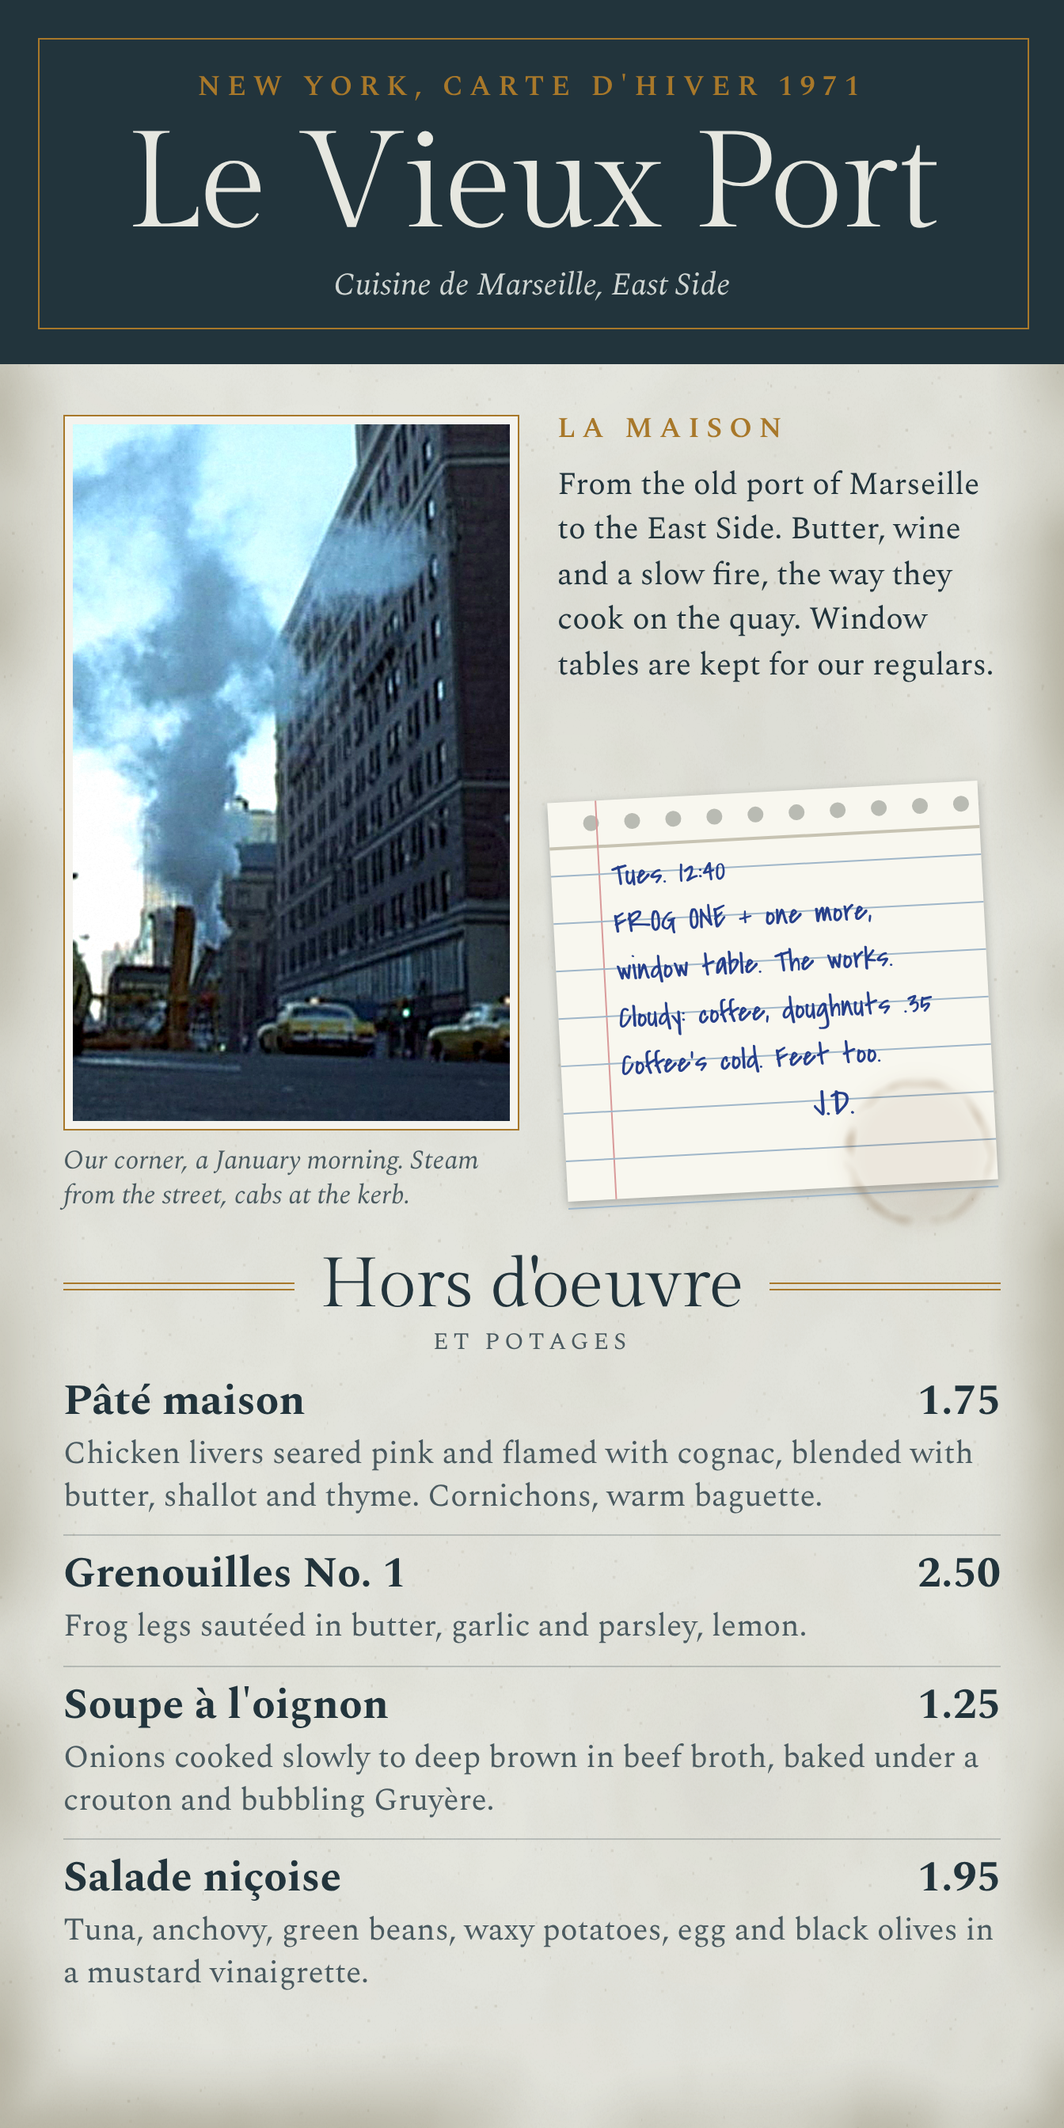
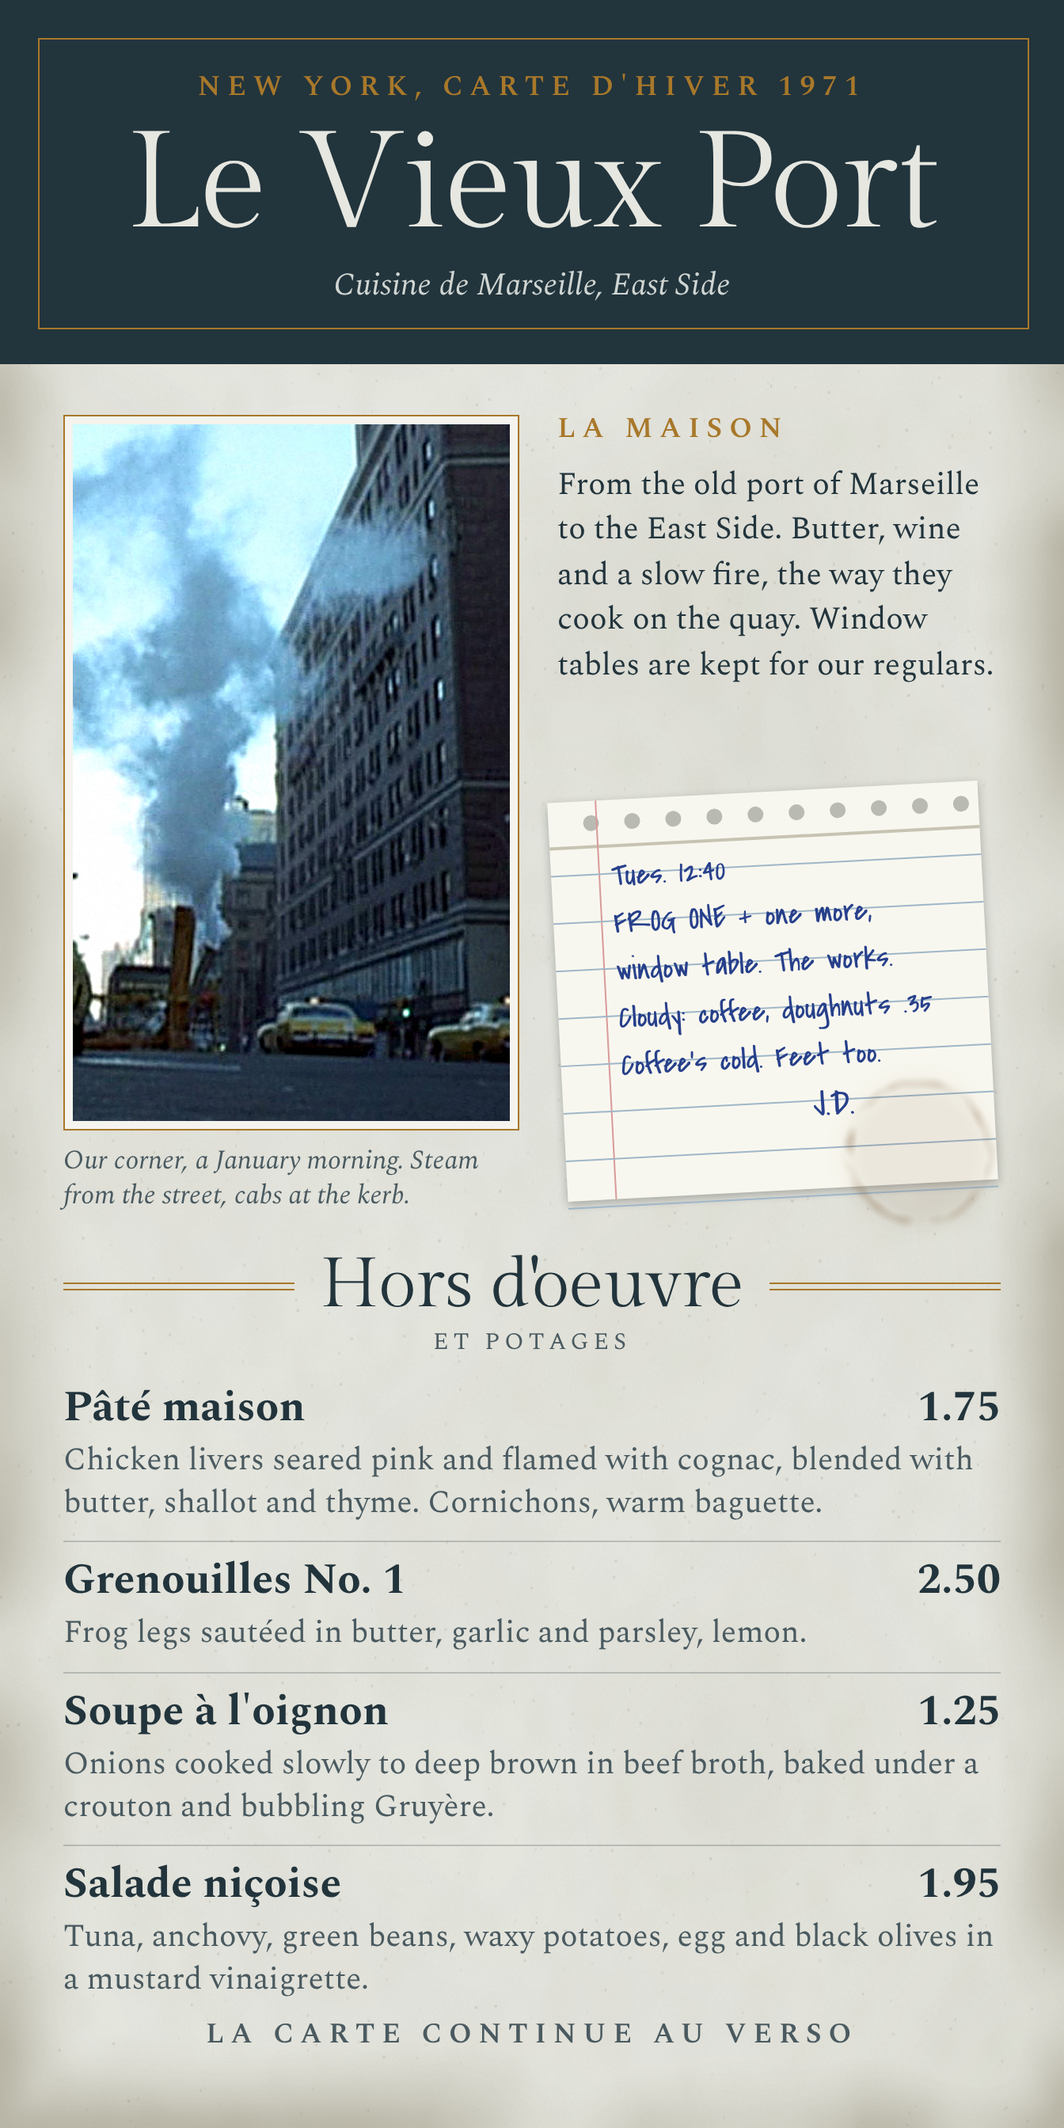
WIP: French Connection fix
Claude-Session: https://claude.ai/code/session_01X8MY2cd64W8hRNnJ8H5qJf

diff --git a/wip/print/the-french-connection/front.html b/wip/print/the-french-connection/front.html
@@ -12,5 +12,6 @@
 <div style="position:absolute;left:352px;top:500px;width:272px;height:252px;"><div style="position:absolute;left:0;top:0;width:272px;height:252px;background:#f8f7ef;box-shadow:0 2px 6px rgba(20,30,34,.28);transform:rotate(-3deg)"><div style="position:absolute;left:0;right:0;top:0;height:28px;border-bottom:2px solid #c7c3b2"></div><div style="position:absolute;top:9px;left:22px;width:10px;height:10px;border-radius:50%;background:#b9bbb3"></div><div style="position:absolute;top:9px;left:48px;width:10px;height:10px;border-radius:50%;background:#b9bbb3"></div><div style="position:absolute;top:9px;left:74px;width:10px;height:10px;border-radius:50%;background:#b9bbb3"></div><div style="position:absolute;top:9px;left:100px;width:10px;height:10px;border-radius:50%;background:#b9bbb3"></div><div style="position:absolute;top:9px;left:126px;width:10px;height:10px;border-radius:50%;background:#b9bbb3"></div><div style="position:absolute;top:9px;left:152px;width:10px;height:10px;border-radius:50%;background:#b9bbb3"></div><div style="position:absolute;top:9px;left:178px;width:10px;height:10px;border-radius:50%;background:#b9bbb3"></div><div style="position:absolute;top:9px;left:204px;width:10px;height:10px;border-radius:50%;background:#b9bbb3"></div><div style="position:absolute;top:9px;left:230px;width:10px;height:10px;border-radius:50%;background:#b9bbb3"></div><div style="position:absolute;top:9px;left:256px;width:10px;height:10px;border-radius:50%;background:#b9bbb3"></div><div style="position:absolute;left:30px;top:0;bottom:0;border-left:1px solid #d99a9a"></div><div style="position:absolute;left:0;right:0;top:46px;border-top:1px solid #9fb6c9"></div><div style="position:absolute;left:0;right:0;top:76px;border-top:1px solid #9fb6c9"></div><div style="position:absolute;left:0;right:0;top:106px;border-top:1px solid #9fb6c9"></div><div style="position:absolute;left:0;right:0;top:136px;border-top:1px solid #9fb6c9"></div><div style="position:absolute;left:0;right:0;top:166px;border-top:1px solid #9fb6c9"></div><div style="position:absolute;left:0;right:0;top:196px;border-top:1px solid #9fb6c9"></div><div style="position:absolute;left:0;right:0;top:226px;border-top:1px solid #9fb6c9"></div><div style="position:absolute;left:0;right:0;top:256px;border-top:1px solid #9fb6c9"></div><div style="position:absolute;left:38px;top:34px"><div style="height:30px;font:400 20px/30px 'Covered By Your Grace',cursive;color:#27408b;white-space:nowrap">Tues. 12:40</div><div style="height:30px;font:400 20px/30px 'Covered By Your Grace',cursive;color:#27408b;white-space:nowrap">FROG ONE + one more,</div><div style="height:30px;font:400 20px/30px 'Covered By Your Grace',cursive;color:#27408b;white-space:nowrap">window table. The works.</div><div style="height:30px;font:400 20px/30px 'Covered By Your Grace',cursive;color:#27408b;white-space:nowrap">Cloudy: coffee, doughnuts .35</div><div style="height:30px;font:400 20px/30px 'Covered By Your Grace',cursive;color:#27408b;white-space:nowrap">Coffee's cold. Feet too.</div><div style="font:400 24px/30px 'Covered By Your Grace',cursive;color:#27408b;margin-left:120px">J.D.</div></div></div></div>
 <img src="assets/ring.png" alt="" style="position:absolute;left:520px;top:668px;width:120px;height:120px;display:block">
 
-<div style="position:absolute;left:40px;top:790px;width:592px;"><div style="display:flex;align-items:center;gap:16px"><div style="flex:1;height:0;border-top:1px solid #a8782a;border-bottom:1px solid #a8782a;padding-top:3px"></div><div style="font:400 44px/1 'Gilda Display',serif;color:#22343c;white-space:nowrap">Hors d&#39;oeuvre</div><div style="flex:1;height:0;border-top:1px solid #a8782a;border-bottom:1px solid #a8782a;padding-top:3px"></div></div><div style="font:400 15px/1 'Spectral',serif;letter-spacing:.2em;color:#4a5a60;margin-top:6px;text-align:center">ET POTAGES</div><div style="margin-top:6px"><div style="padding:9px 0 10px;border-bottom:1px solid rgba(34,52,60,.22);"><div style="display:flex;justify-content:space-between;align-items:baseline;gap:12px"><div style="font:700 27px/1.15 'Spectral',serif;color:#22343c">Pâté maison</div><div style="font:700 27px/1.15 'Spectral',serif;color:#22343c;white-space:nowrap">1.75</div></div><div style="font:400 20px/1.36 'Spectral',serif;color:#4a5a60;margin-top:4px">Chicken livers seared pink and flamed with cognac, blended with butter, shallot and thyme. Cornichons, warm baguette.</div></div><div style="padding:9px 0 10px;border-bottom:1px solid rgba(34,52,60,.22);"><div style="display:flex;justify-content:space-between;align-items:baseline;gap:12px"><div style="font:700 27px/1.15 'Spectral',serif;color:#22343c">Grenouilles No. 1</div><div style="font:700 27px/1.15 'Spectral',serif;color:#22343c;white-space:nowrap">2.50</div></div><div style="font:400 20px/1.36 'Spectral',serif;color:#4a5a60;margin-top:4px">Frog legs sautéed in butter, garlic and parsley, lemon.</div></div><div style="padding:9px 0 10px;border-bottom:1px solid rgba(34,52,60,.22);"><div style="display:flex;justify-content:space-between;align-items:baseline;gap:12px"><div style="font:700 27px/1.15 'Spectral',serif;color:#22343c">Soupe à l'oignon</div><div style="font:700 27px/1.15 'Spectral',serif;color:#22343c;white-space:nowrap">1.25</div></div><div style="font:400 20px/1.36 'Spectral',serif;color:#4a5a60;margin-top:4px">Onions cooked slowly to deep brown in beef broth, baked under a crouton and bubbling Gruyère.</div></div><div style="padding:9px 0 10px;"><div style="display:flex;justify-content:space-between;align-items:baseline;gap:12px"><div style="font:700 27px/1.15 'Spectral',serif;color:#22343c">Salade niçoise</div><div style="font:700 27px/1.15 'Spectral',serif;color:#22343c;white-space:nowrap">1.95</div></div><div style="font:400 20px/1.36 'Spectral',serif;color:#4a5a60;margin-top:4px">Tuna, anchovy, green beans, waxy potatoes, egg and black olives in a mustard vinaigrette.</div></div></div></div>
+<div style="position:absolute;left:40px;top:790px;width:592px;"><div style="display:flex;align-items:center;gap:16px"><div style="flex:1;height:0;border-top:1px solid #a8782a;border-bottom:1px solid #a8782a;padding-top:3px"></div><div style="font:400 44px/1 'Gilda Display',serif;color:#22343c;white-space:nowrap">Hors d&#39;oeuvre</div><div style="flex:1;height:0;border-top:1px solid #a8782a;border-bottom:1px solid #a8782a;padding-top:3px"></div></div><div style="font:400 15px/1 'Spectral',serif;letter-spacing:.2em;color:#4a5a60;margin-top:6px;text-align:center">ET POTAGES</div><div style="margin-top:10px"><div style="padding:9px 0 10px;border-bottom:1px solid rgba(34,52,60,.22);"><div style="display:flex;justify-content:space-between;align-items:baseline;gap:12px"><div style="font:700 27px/1.15 'Spectral',serif;color:#22343c">Pâté maison</div><div style="font:700 27px/1.15 'Spectral',serif;color:#22343c;white-space:nowrap">1.75</div></div><div style="font:400 20px/1.36 'Spectral',serif;color:#4a5a60;margin-top:4px">Chicken livers seared pink and flamed with cognac, blended with butter, shallot and thyme. Cornichons, warm baguette.</div></div><div style="padding:9px 0 10px;border-bottom:1px solid rgba(34,52,60,.22);"><div style="display:flex;justify-content:space-between;align-items:baseline;gap:12px"><div style="font:700 27px/1.15 'Spectral',serif;color:#22343c">Grenouilles No. 1</div><div style="font:700 27px/1.15 'Spectral',serif;color:#22343c;white-space:nowrap">2.50</div></div><div style="font:400 20px/1.36 'Spectral',serif;color:#4a5a60;margin-top:4px">Frog legs sautéed in butter, garlic and parsley, lemon.</div></div><div style="padding:9px 0 10px;border-bottom:1px solid rgba(34,52,60,.22);"><div style="display:flex;justify-content:space-between;align-items:baseline;gap:12px"><div style="font:700 27px/1.15 'Spectral',serif;color:#22343c">Soupe à l'oignon</div><div style="font:700 27px/1.15 'Spectral',serif;color:#22343c;white-space:nowrap">1.25</div></div><div style="font:400 20px/1.36 'Spectral',serif;color:#4a5a60;margin-top:4px">Onions cooked slowly to deep brown in beef broth, baked under a crouton and bubbling Gruyère.</div></div><div style="padding:9px 0 10px;"><div style="display:flex;justify-content:space-between;align-items:baseline;gap:12px"><div style="font:700 27px/1.15 'Spectral',serif;color:#22343c">Salade niçoise</div><div style="font:700 27px/1.15 'Spectral',serif;color:#22343c;white-space:nowrap">1.95</div></div><div style="font:400 20px/1.36 'Spectral',serif;color:#4a5a60;margin-top:4px">Tuna, anchovy, green beans, waxy potatoes, egg and black olives in a mustard vinaigrette.</div></div></div></div>
+<div style="position:absolute;left:40px;top:1276px;width:592px;"><div style="font:600 18px/1 'Spectral',serif;letter-spacing:.24em;color:#4a5a60;text-align:center">LA CARTE CONTINUE AU VERSO</div></div>
 </div></body></html>

diff --git a/wip/print/the-french-connection/front.body.html b/wip/print/the-french-connection/front.body.html
@@ -12,5 +12,6 @@
 <div style="position:absolute;left:352px;top:500px;width:272px;height:252px;"><div style="position:absolute;left:0;top:0;width:272px;height:252px;background:#f8f7ef;box-shadow:0 2px 6px rgba(20,30,34,.28);transform:rotate(-3deg)"><div style="position:absolute;left:0;right:0;top:0;height:28px;border-bottom:2px solid #c7c3b2"></div><div style="position:absolute;top:9px;left:22px;width:10px;height:10px;border-radius:50%;background:#b9bbb3"></div><div style="position:absolute;top:9px;left:48px;width:10px;height:10px;border-radius:50%;background:#b9bbb3"></div><div style="position:absolute;top:9px;left:74px;width:10px;height:10px;border-radius:50%;background:#b9bbb3"></div><div style="position:absolute;top:9px;left:100px;width:10px;height:10px;border-radius:50%;background:#b9bbb3"></div><div style="position:absolute;top:9px;left:126px;width:10px;height:10px;border-radius:50%;background:#b9bbb3"></div><div style="position:absolute;top:9px;left:152px;width:10px;height:10px;border-radius:50%;background:#b9bbb3"></div><div style="position:absolute;top:9px;left:178px;width:10px;height:10px;border-radius:50%;background:#b9bbb3"></div><div style="position:absolute;top:9px;left:204px;width:10px;height:10px;border-radius:50%;background:#b9bbb3"></div><div style="position:absolute;top:9px;left:230px;width:10px;height:10px;border-radius:50%;background:#b9bbb3"></div><div style="position:absolute;top:9px;left:256px;width:10px;height:10px;border-radius:50%;background:#b9bbb3"></div><div style="position:absolute;left:30px;top:0;bottom:0;border-left:1px solid #d99a9a"></div><div style="position:absolute;left:0;right:0;top:46px;border-top:1px solid #9fb6c9"></div><div style="position:absolute;left:0;right:0;top:76px;border-top:1px solid #9fb6c9"></div><div style="position:absolute;left:0;right:0;top:106px;border-top:1px solid #9fb6c9"></div><div style="position:absolute;left:0;right:0;top:136px;border-top:1px solid #9fb6c9"></div><div style="position:absolute;left:0;right:0;top:166px;border-top:1px solid #9fb6c9"></div><div style="position:absolute;left:0;right:0;top:196px;border-top:1px solid #9fb6c9"></div><div style="position:absolute;left:0;right:0;top:226px;border-top:1px solid #9fb6c9"></div><div style="position:absolute;left:0;right:0;top:256px;border-top:1px solid #9fb6c9"></div><div style="position:absolute;left:38px;top:34px"><div style="height:30px;font:400 20px/30px 'Covered By Your Grace',cursive;color:#27408b;white-space:nowrap">Tues. 12:40</div><div style="height:30px;font:400 20px/30px 'Covered By Your Grace',cursive;color:#27408b;white-space:nowrap">FROG ONE + one more,</div><div style="height:30px;font:400 20px/30px 'Covered By Your Grace',cursive;color:#27408b;white-space:nowrap">window table. The works.</div><div style="height:30px;font:400 20px/30px 'Covered By Your Grace',cursive;color:#27408b;white-space:nowrap">Cloudy: coffee, doughnuts .35</div><div style="height:30px;font:400 20px/30px 'Covered By Your Grace',cursive;color:#27408b;white-space:nowrap">Coffee's cold. Feet too.</div><div style="font:400 24px/30px 'Covered By Your Grace',cursive;color:#27408b;margin-left:120px">J.D.</div></div></div></div>
 <img src="assets/ring.png" alt="" style="position:absolute;left:520px;top:668px;width:120px;height:120px;display:block">
 
-<div style="position:absolute;left:40px;top:790px;width:592px;"><div style="display:flex;align-items:center;gap:16px"><div style="flex:1;height:0;border-top:1px solid #a8782a;border-bottom:1px solid #a8782a;padding-top:3px"></div><div style="font:400 44px/1 'Gilda Display',serif;color:#22343c;white-space:nowrap">Hors d&#39;oeuvre</div><div style="flex:1;height:0;border-top:1px solid #a8782a;border-bottom:1px solid #a8782a;padding-top:3px"></div></div><div style="font:400 15px/1 'Spectral',serif;letter-spacing:.2em;color:#4a5a60;margin-top:6px;text-align:center">ET POTAGES</div><div style="margin-top:6px"><div style="padding:9px 0 10px;border-bottom:1px solid rgba(34,52,60,.22);"><div style="display:flex;justify-content:space-between;align-items:baseline;gap:12px"><div style="font:700 27px/1.15 'Spectral',serif;color:#22343c">Pâté maison</div><div style="font:700 27px/1.15 'Spectral',serif;color:#22343c;white-space:nowrap">1.75</div></div><div style="font:400 20px/1.36 'Spectral',serif;color:#4a5a60;margin-top:4px">Chicken livers seared pink and flamed with cognac, blended with butter, shallot and thyme. Cornichons, warm baguette.</div></div><div style="padding:9px 0 10px;border-bottom:1px solid rgba(34,52,60,.22);"><div style="display:flex;justify-content:space-between;align-items:baseline;gap:12px"><div style="font:700 27px/1.15 'Spectral',serif;color:#22343c">Grenouilles No. 1</div><div style="font:700 27px/1.15 'Spectral',serif;color:#22343c;white-space:nowrap">2.50</div></div><div style="font:400 20px/1.36 'Spectral',serif;color:#4a5a60;margin-top:4px">Frog legs sautéed in butter, garlic and parsley, lemon.</div></div><div style="padding:9px 0 10px;border-bottom:1px solid rgba(34,52,60,.22);"><div style="display:flex;justify-content:space-between;align-items:baseline;gap:12px"><div style="font:700 27px/1.15 'Spectral',serif;color:#22343c">Soupe à l'oignon</div><div style="font:700 27px/1.15 'Spectral',serif;color:#22343c;white-space:nowrap">1.25</div></div><div style="font:400 20px/1.36 'Spectral',serif;color:#4a5a60;margin-top:4px">Onions cooked slowly to deep brown in beef broth, baked under a crouton and bubbling Gruyère.</div></div><div style="padding:9px 0 10px;"><div style="display:flex;justify-content:space-between;align-items:baseline;gap:12px"><div style="font:700 27px/1.15 'Spectral',serif;color:#22343c">Salade niçoise</div><div style="font:700 27px/1.15 'Spectral',serif;color:#22343c;white-space:nowrap">1.95</div></div><div style="font:400 20px/1.36 'Spectral',serif;color:#4a5a60;margin-top:4px">Tuna, anchovy, green beans, waxy potatoes, egg and black olives in a mustard vinaigrette.</div></div></div></div>
+<div style="position:absolute;left:40px;top:790px;width:592px;"><div style="display:flex;align-items:center;gap:16px"><div style="flex:1;height:0;border-top:1px solid #a8782a;border-bottom:1px solid #a8782a;padding-top:3px"></div><div style="font:400 44px/1 'Gilda Display',serif;color:#22343c;white-space:nowrap">Hors d&#39;oeuvre</div><div style="flex:1;height:0;border-top:1px solid #a8782a;border-bottom:1px solid #a8782a;padding-top:3px"></div></div><div style="font:400 15px/1 'Spectral',serif;letter-spacing:.2em;color:#4a5a60;margin-top:6px;text-align:center">ET POTAGES</div><div style="margin-top:10px"><div style="padding:9px 0 10px;border-bottom:1px solid rgba(34,52,60,.22);"><div style="display:flex;justify-content:space-between;align-items:baseline;gap:12px"><div style="font:700 27px/1.15 'Spectral',serif;color:#22343c">Pâté maison</div><div style="font:700 27px/1.15 'Spectral',serif;color:#22343c;white-space:nowrap">1.75</div></div><div style="font:400 20px/1.36 'Spectral',serif;color:#4a5a60;margin-top:4px">Chicken livers seared pink and flamed with cognac, blended with butter, shallot and thyme. Cornichons, warm baguette.</div></div><div style="padding:9px 0 10px;border-bottom:1px solid rgba(34,52,60,.22);"><div style="display:flex;justify-content:space-between;align-items:baseline;gap:12px"><div style="font:700 27px/1.15 'Spectral',serif;color:#22343c">Grenouilles No. 1</div><div style="font:700 27px/1.15 'Spectral',serif;color:#22343c;white-space:nowrap">2.50</div></div><div style="font:400 20px/1.36 'Spectral',serif;color:#4a5a60;margin-top:4px">Frog legs sautéed in butter, garlic and parsley, lemon.</div></div><div style="padding:9px 0 10px;border-bottom:1px solid rgba(34,52,60,.22);"><div style="display:flex;justify-content:space-between;align-items:baseline;gap:12px"><div style="font:700 27px/1.15 'Spectral',serif;color:#22343c">Soupe à l'oignon</div><div style="font:700 27px/1.15 'Spectral',serif;color:#22343c;white-space:nowrap">1.25</div></div><div style="font:400 20px/1.36 'Spectral',serif;color:#4a5a60;margin-top:4px">Onions cooked slowly to deep brown in beef broth, baked under a crouton and bubbling Gruyère.</div></div><div style="padding:9px 0 10px;"><div style="display:flex;justify-content:space-between;align-items:baseline;gap:12px"><div style="font:700 27px/1.15 'Spectral',serif;color:#22343c">Salade niçoise</div><div style="font:700 27px/1.15 'Spectral',serif;color:#22343c;white-space:nowrap">1.95</div></div><div style="font:400 20px/1.36 'Spectral',serif;color:#4a5a60;margin-top:4px">Tuna, anchovy, green beans, waxy potatoes, egg and black olives in a mustard vinaigrette.</div></div></div></div>
+<div style="position:absolute;left:40px;top:1276px;width:592px;"><div style="font:600 18px/1 'Spectral',serif;letter-spacing:.24em;color:#4a5a60;text-align:center">LA CARTE CONTINUE AU VERSO</div></div>
 </div>

diff --git a/wip/print/16-blocks/paint.py b/wip/print/16-blocks/paint.py
@@ -47,7 +47,7 @@ for w_ in widths: xs.append(xs[-1] + w_)
 ys = [Y0 + j * BY for j in range(-2, 15)]
 SW = {}   # street half widths
 def hw_x(x): return 13 if x == X0 else 8
-def hw_y(y): return 13 if y == Y0 + 8 * BY else 8
+def hw_y(y): return 13 if y == Y0 + 8 * BY else (17 if y == Y0 + 4 * BY else 8)
 EAST_Y = Y0 + 8 * BY
 END_X = xs[2 + 8]
 
@@ -142,8 +142,8 @@ label('CANAL ST', (xs[6] + xs[7]) / 2 + 6, EAST_Y + 36, 28)
 cxl, cyl = (xs[6] + xs[8]) / 2 + 30, ys[2 + 6] + BY / 2
 d.rectangle(k(cxl - 110, cyl - 20, cxl + 110, cyl + 20), fill=CREAM, outline=NAVY, width=2 * K)
 label('CHINATOWN', cxl + 4, cyl, 26, 0, NAVY, 'BSD-800.ttf', 9)
-label('WALKER ST', (xs[8] + xs[9]) / 2, ys[2 + 4], 24, 0)
-label('SQUARE', (xs[3] + xs[4]) / 2, ys[7] + 16, 24, 0)
+label('WALKER ST', (xs[8] + xs[9]) / 2, ys[6], 22, 0)
+label('SQUARE', (xs[3] + xs[4]) / 2, ys[6], 22, 0)
 
 # shop marker at block 8, the corner
 cx, cy = X0, EAST_Y
@@ -222,15 +222,15 @@ d.polygon([tuple(k(END_X - 14, EAST_Y + 14)), tuple(k(END_X + 14, EAST_Y + 14)),
 label('THE COURTS', cx0 + cw / 2, sy + 62, 32, 0)
 
 # ---- compass ----
-nx, ny = 800, 100
+nx, ny = 800, 84
 d.polygon([tuple(k(nx, ny - 34)), tuple(k(nx + 11, ny)), tuple(k(nx, ny - 6)), tuple(k(nx - 11, ny))], fill=NAVY)
 d.polygon([tuple(k(nx, ny + 34)), tuple(k(nx + 11, ny)), tuple(k(nx, ny + 6)), tuple(k(nx - 11, ny))], outline=NAVY, fill=CREAM)
 d.ellipse(k(nx - 22, ny - 22, nx + 22, ny + 22), outline=NAVY, width=K)
 label('N', nx, ny - 48, 18, 0)
 # scale
-d.rectangle(k(620, 64, 620 + BX, 72), outline=NAVY, width=K * 2, fill=CREAM)
-d.rectangle(k(620, 64, 620 + BX / 2, 72), fill=NAVY)
-label('ONE BLOCK', 620 + BX / 2, 94, 24, 0)
+d.rectangle(k(724, 140, 724 + BX, 148), outline=NAVY, width=K * 2, fill=CREAM)
+d.rectangle(k(724, 140, 724 + BX / 2, 148), fill=NAVY)
+label('ONE BLOCK', 763, 170, 22, 0)
 
 # border
 d.rectangle(k(3, 3, W - 4, H - 4), outline=NAVY, width=4 * K)

diff --git a/wip/print/the-french-connection/build.py b/wip/print/the-french-connection/build.py
@@ -90,7 +90,8 @@ front = f'''<div style="position:relative;width:{W}px;height:{H}px;overflow:hidd
 {ab(352, 500, 272, 252, notebook)}
 <img src="assets/ring.png" alt="" style="position:absolute;left:520px;top:668px;width:120px;height:120px;display:block">
 
-{ab(40, 790, W - 80, 0, section('Hors d&#39;oeuvre', 'ET POTAGES') + f'<div style="margin-top:6px">{items(HORS)}</div>')}
+{ab(40, 790, W - 80, 0, section('Hors d&#39;oeuvre', 'ET POTAGES') + f'<div style="margin-top:10px">{items(HORS)}</div>')}
+{ab(40, 1276, W - 80, 0, kicker('LA CARTE CONTINUE AU VERSO', SOFT, 'center'))}
 </div>'''
 
 # ---------------------------------------------------------------- back
